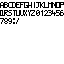
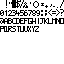
Display hours add

diff --git a/src/ssd1306_text.c b/src/ssd1306_text.c
@@ -115,7 +115,7 @@ void loadSmallChar(){
 	
 	int sy, sx;
 	for(int id = 0; id < N_ASCII_CHAR; id++){
-		sy = id / (SPRITE_TABLE_SIZE/(SMALL_CHAR_SIZE/2));
+		sy = (id / (SPRITE_TABLE_SIZE/(SMALL_CHAR_SIZE/2)))*8;
 		sx = (id % (SPRITE_TABLE_SIZE/(SMALL_CHAR_SIZE/2)))*4;
 		for(int y = sy; y < sy + SMALL_CHAR_SIZE; y++){
 			for(int x = sx; x < sx + SMALL_CHAR_SIZE/2; x++){
@@ -170,8 +170,11 @@ void drawSmallCharFromID(char id, char x, char y){
 		}
 	}
 }
-void drawSmallString(char x, char y, char *c, ...){
+void drawSmallString(char x, char y, char *str){
 	
+	for(int i = 0; i < strlen(str); i++){
+		drawSmallCharFromID((int)str[i] - 32, x + i*(SMALL_CHAR_SIZE/2), y);
+	}
 	
 }
 

diff --git a/src/clock.c b/src/clock.c
@@ -6,17 +6,13 @@ void initClock(){
 }
 void displayHour(){
 	
+	char hour[6];
+	
 	time_t timestamp = time(NULL);
 	struct tm * timeInfos = localtime( &timestamp );
 	
-	//timeInfos->tm_hour;
-	//timeInfos->tm_min;
-	drawSmallChar(0, 0, 0, 0);
-	drawSmallChar(4, 0, 4, 0);
-	drawSmallChar(12, 8, 8, 0);
-	drawSmallChar(12, 0, 12, 0);
-	drawSmallChar(0, 8, 16, 0);
-	drawSmallCharFromID(10, 12, 16);
+	sprintf(hour, "%d:%d", timeInfos->tm_hour, timeInfos->tm_min);
+	drawSmallString(0, 0, hour);
 }
 
 

diff --git a/src/ssd1306_text.h b/src/ssd1306_text.h
@@ -1,6 +1,7 @@
 #include <stdio.h>
 #include <math.h>
 #include <stdlib.h>
+#include <string.h>
 #include <png.h>
 
 #include "ssd1306.h"
@@ -24,7 +25,7 @@ void createCharTable();
 void destroyCharTable();
 void drawSmallChar(char cx, char cy, char x, char y);
 void drawSmallCharFromID(char id, char x, char y);
-void drawSmallString(char x, char y, char *c, ...);
+void drawSmallString(char x, char y, char *c);
 void loadSmallChar();
 
 

diff --git a/src/clock.h b/src/clock.h
@@ -9,7 +9,7 @@
 #ifndef __UWUCLOCK_H__
 #define __UWUCLOCK_H__
 
-
+void displayHour();
 void initClock();
 
 
